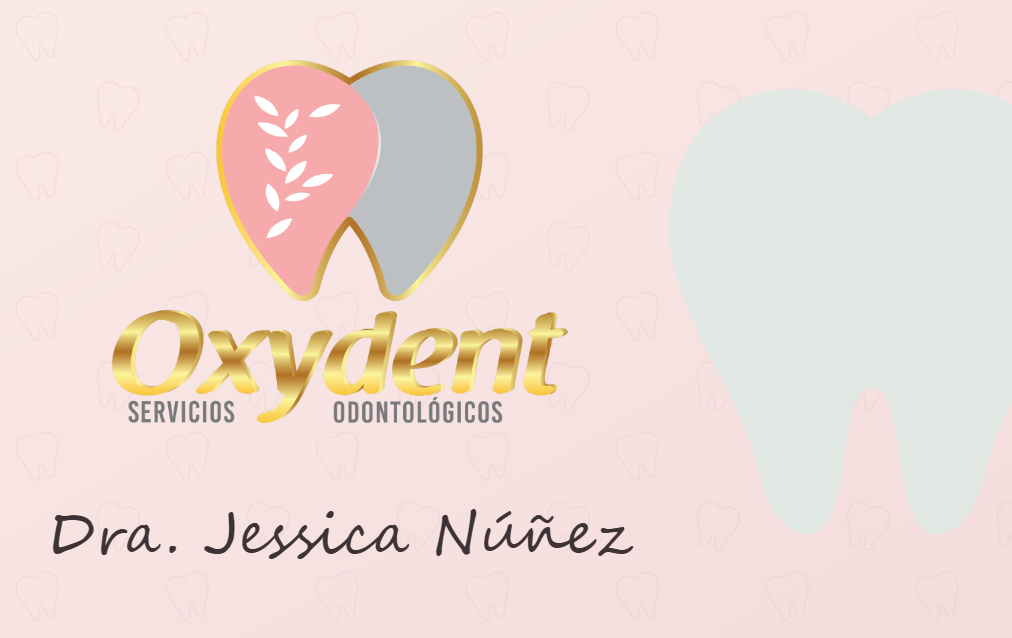
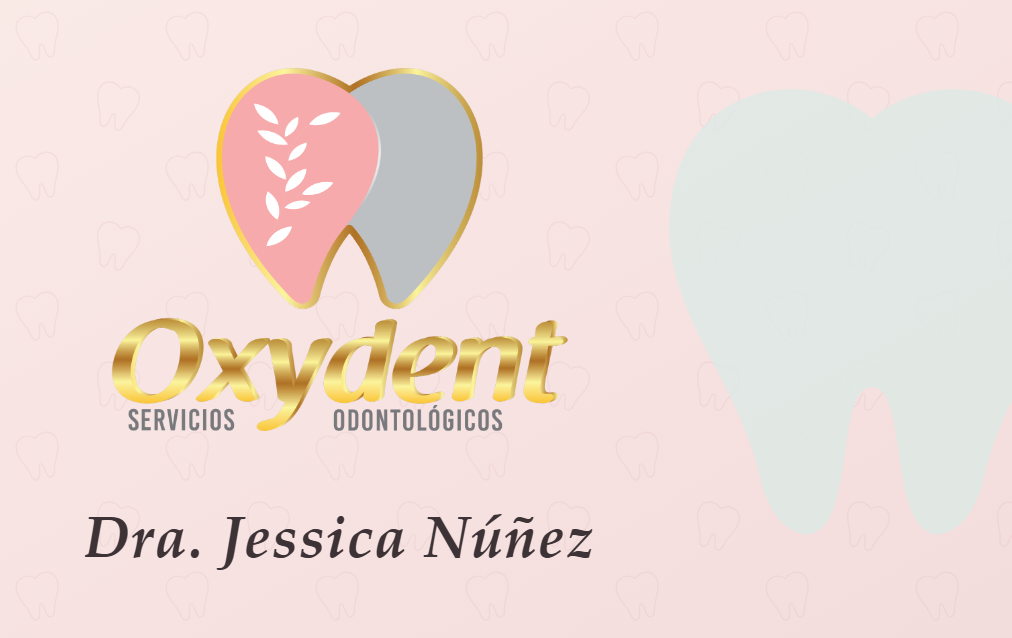
NFC: diente más amplio para el QR y tipografía Palatino profesional

diff --git a/nfc/nfc-posterior-v3.html b/nfc/nfc-posterior-v3.html
@@ -12,12 +12,12 @@ body{width:1012px;height:638px;overflow:hidden;font-family:'Segoe UI',sans-serif
 .pattern{position:absolute;inset:0;opacity:.14}
 /* columna izquierda */
 .left{position:absolute;left:0;top:0;bottom:118px;width:470px;text-align:center}
-.script{font-family:'Segoe Script','Brush Script MT',cursive;font-size:42px;color:#3d3336;margin-top:34px}
-.toothqr{position:relative;width:300px;height:300px;margin:2px auto 0}
+.script{font-family:'Palatino Linotype',Georgia,serif;font-style:italic;font-weight:700;font-size:44px;color:#3d3336;margin-top:28px;letter-spacing:1px}
+.toothqr{position:relative;width:344px;height:318px;margin:0 auto 0}
 .toothqr svg.shape{position:absolute;inset:0;width:100%;height:100%}
-.toothqr .qr{position:absolute;top:74px;left:60px;width:180px;height:180px}
+.toothqr .qr{position:absolute;top:64px;left:80px;width:184px;height:184px}
 .toothqr .qr svg{width:100%;height:100%}
-.socials{margin-top:6px;text-align:left;display:inline-block}
+.socials{margin-top:4px;text-align:left;display:inline-block}
 .socials div{display:flex;align-items:center;gap:12px;font-size:25px;font-weight:700;color:#3d3336;margin-bottom:10px}
 .socials .ic{width:36px;height:36px;border-radius:10px;border:2px solid #c97786;display:flex;align-items:center;justify-content:center}
 .socials .ic svg{width:20px;height:20px;fill:#c97786}
@@ -52,7 +52,7 @@ body{width:1012px;height:638px;overflow:hidden;font-family:'Segoe UI',sans-serif
     <div class="script">Agenda tu cita</div>
     <div class="toothqr">
       <svg class="shape" viewBox="0 0 100 100">
-        <path d="M50 10 C36 -1 10 4 8 28 C6 48 22 62 26 82 C28 93 38 97 41.5 88 C44 80 43 66 50 66 C57 66 56 80 58.5 88 C62 97 72 93 74 82 C78 62 94 48 92 28 C90 4 64 -1 50 10 Z" fill="#fff" style="filter:drop-shadow(0 6px 14px rgba(201,119,134,.35))"/>
+        <path d="M50 9 C34 -3 6 3 4 27 C2 48 20 63 24 83 C26 94 37 98 41 89 C44 81 43 68 50 68 C57 68 56 81 59 89 C63 98 74 94 76 83 C80 63 98 48 96 27 C94 3 66 -3 50 9 Z" fill="#fff" style="filter:drop-shadow(0 6px 14px rgba(201,119,134,.35))"/>
       </svg>
       <div class="qr" id="qr"></div>
     </div>

diff --git a/nfc/nfc-frontal-v3.html b/nfc/nfc-frontal-v3.html
@@ -25,7 +25,7 @@ body{width:1012px;height:638px;overflow:hidden;font-family:'Segoe UI',sans-serif
 .sub{display:flex;align-items:center;gap:18px;margin-top:10px}
 .sub span{font-size:19px;letter-spacing:5px;text-transform:uppercase;color:#8d9094;font-weight:700}
 .sub .dot{width:7px;height:7px;border-radius:50%;background:#c9a13b}
-.script{font-family:'Segoe Script','Brush Script MT',cursive;font-size:57px;color:#3d3336;margin-top:44px}
+.script{font-family:'Palatino Linotype',Georgia,serif;font-style:italic;font-weight:700;font-size:58px;color:#3d3336;margin-top:40px;letter-spacing:1.5px}
 </style>
 </head>
 <body>
